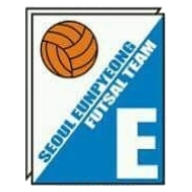
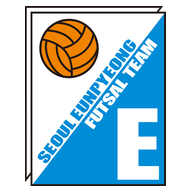
feat(site): 구단 엠블럼을 원본 벡터로 다시 만듦 — 헤더·엠블럼 페이지·탭 아이콘
- 소유자 제공 서울은평엠블럼.ai → public/brand/emblem.png(600×829)·emblem-mark.png(600×766)
- 탭 아이콘(favicon.ico·icon.png·apple-icon.png)도 원본에서 다시
- I-001 엠블럼 해결, 원본 색 기록(사이트 색 토큰은 그대로)

Claude-Session: https://claude.ai/code/session_01KQVuA2kxxdcTX7GeV6BuEM

diff --git a/sites/eunpyeong-denforce/src/app/(site)/club/emblem/page.tsx b/sites/eunpyeong-denforce/src/app/(site)/club/emblem/page.tsx
@@ -13,7 +13,7 @@ export default function EmblemPage() {
       <PageHeader title="엠블럼·유니폼" current="/club/emblem" />
       <div className={`container ${styles.body}`}>
         <section className={styles.split}>
-          <Image src={SITE.emblem} alt={`${SITE.name} 엠블럼`} width={134} height={183} />
+          <Image src={SITE.emblem} alt={`${SITE.name} 엠블럼`} width={134} height={185} />
           <div className={styles.lead}>
             <h2 className={styles.h2}>엠블럼</h2>
             {EMBLEM_TEXT.map((p) => (

diff --git a/sites/eunpyeong-denforce/docs/DOMAIN_KNOWLEDGE.md b/sites/eunpyeong-denforce/docs/DOMAIN_KNOWLEDGE.md
@@ -69,7 +69,7 @@
 
 구단 대표: 최경진 (푸터 표기, D-023). 서울은평FS 시절 선수(2013-14 MOM 기록)·대표 겸 플레잉 코치(2018 인터뷰), 유튜브 "최경진 풋살사관학교"(풋살사관학교 = 서울은평 2군 체제로 운영, 2022 모집글).
 
-영문 팀명: SEOUL EUNPYEONG DENFORCE FUTSAL TEAM (소유자 확인 2026-10-16, `SITE.nameEn` — 헤더 로고 아래). 엠블럼 그림 속 문구는 'SEOUL EUNPYEONG FUTSAL TEAM' 그대로.
+영문 팀명: SEOUL EUNPYEONG DENFORCE FUTSAL TEAM (소유자 확인 2026-10-16, `SITE.nameEn` — 헤더 로고 아래). 엠블럼 그림 속 문구는 'SEOUL EUNPYEONG FUTSAL TEAM' 그대로. 엠블럼 원본: 소유자 제공 벡터 '서울은평엠블럼.ai'(2026-10-16) — 색 파랑 #008CD6·주황 #ED8302·선 #16100E, 아래 'SINCE 2012'.
 
 같은 구단을 가리키는 이름 (소유자 확인, 자료 수집·검색 시 모두 사용): 서울은평FS, 서울은평 풋볼아카데미, 서울은평덴포스, 서울은평ZD스포츠, 서울은평나인티플러스 (띄어쓰기·FC 유무 변형 포함). 화면 표기는 항상 `SITE.name`("서울은평 덴포스").
 

diff --git a/sites/eunpyeong-denforce/docs/KNOWN_ISSUES.md b/sites/eunpyeong-denforce/docs/KNOWN_ISSUES.md
@@ -248,7 +248,7 @@
 - **위치**: `src/data/people.ts`, `src/data/matches.ts`, `src/data/sponsors.ts`
 
 ## I-001 | 2026-10-15 | 엠블럼이 저해상도 JPG, 공식 컬러 가이드 없음
-- **상태**: 열림
+- **상태**: 엠블럼은 해결(2026-10-16) — 소유자가 원본 벡터(서울은평엠블럼.ai)를 줘서 `public/brand/emblem.png`(600×829, SINCE 2012 포함)·`emblem-mark.png`(600×766)·브라우저 탭 아이콘(app/favicon.ico·icon.png·apple-icon.png)을 다시 만듦. 엠블럼 원본 색: 파랑 #008CD6, 주황 #ED8302, 선 #16100E — 사이트 색 토큰(`--c-blue` #1a349a 등)은 그대로(바꾸려면 소유자 결정). 공식 컬러 가이드는 여전히 없음
 - **심각도**: 낮음
 - **증상/내용**: 엠블럼은 제안서에서 추출한 171×195 JPG(흰 배경). 컬러는 제안서·유니폼에서 추출 (D-004).
 - **해결 방향**: 구단에서 SVG/PNG 원본 로고와 컬러값 받으면 `public/brand/`, `src/styles/tokens.css` 교체.
